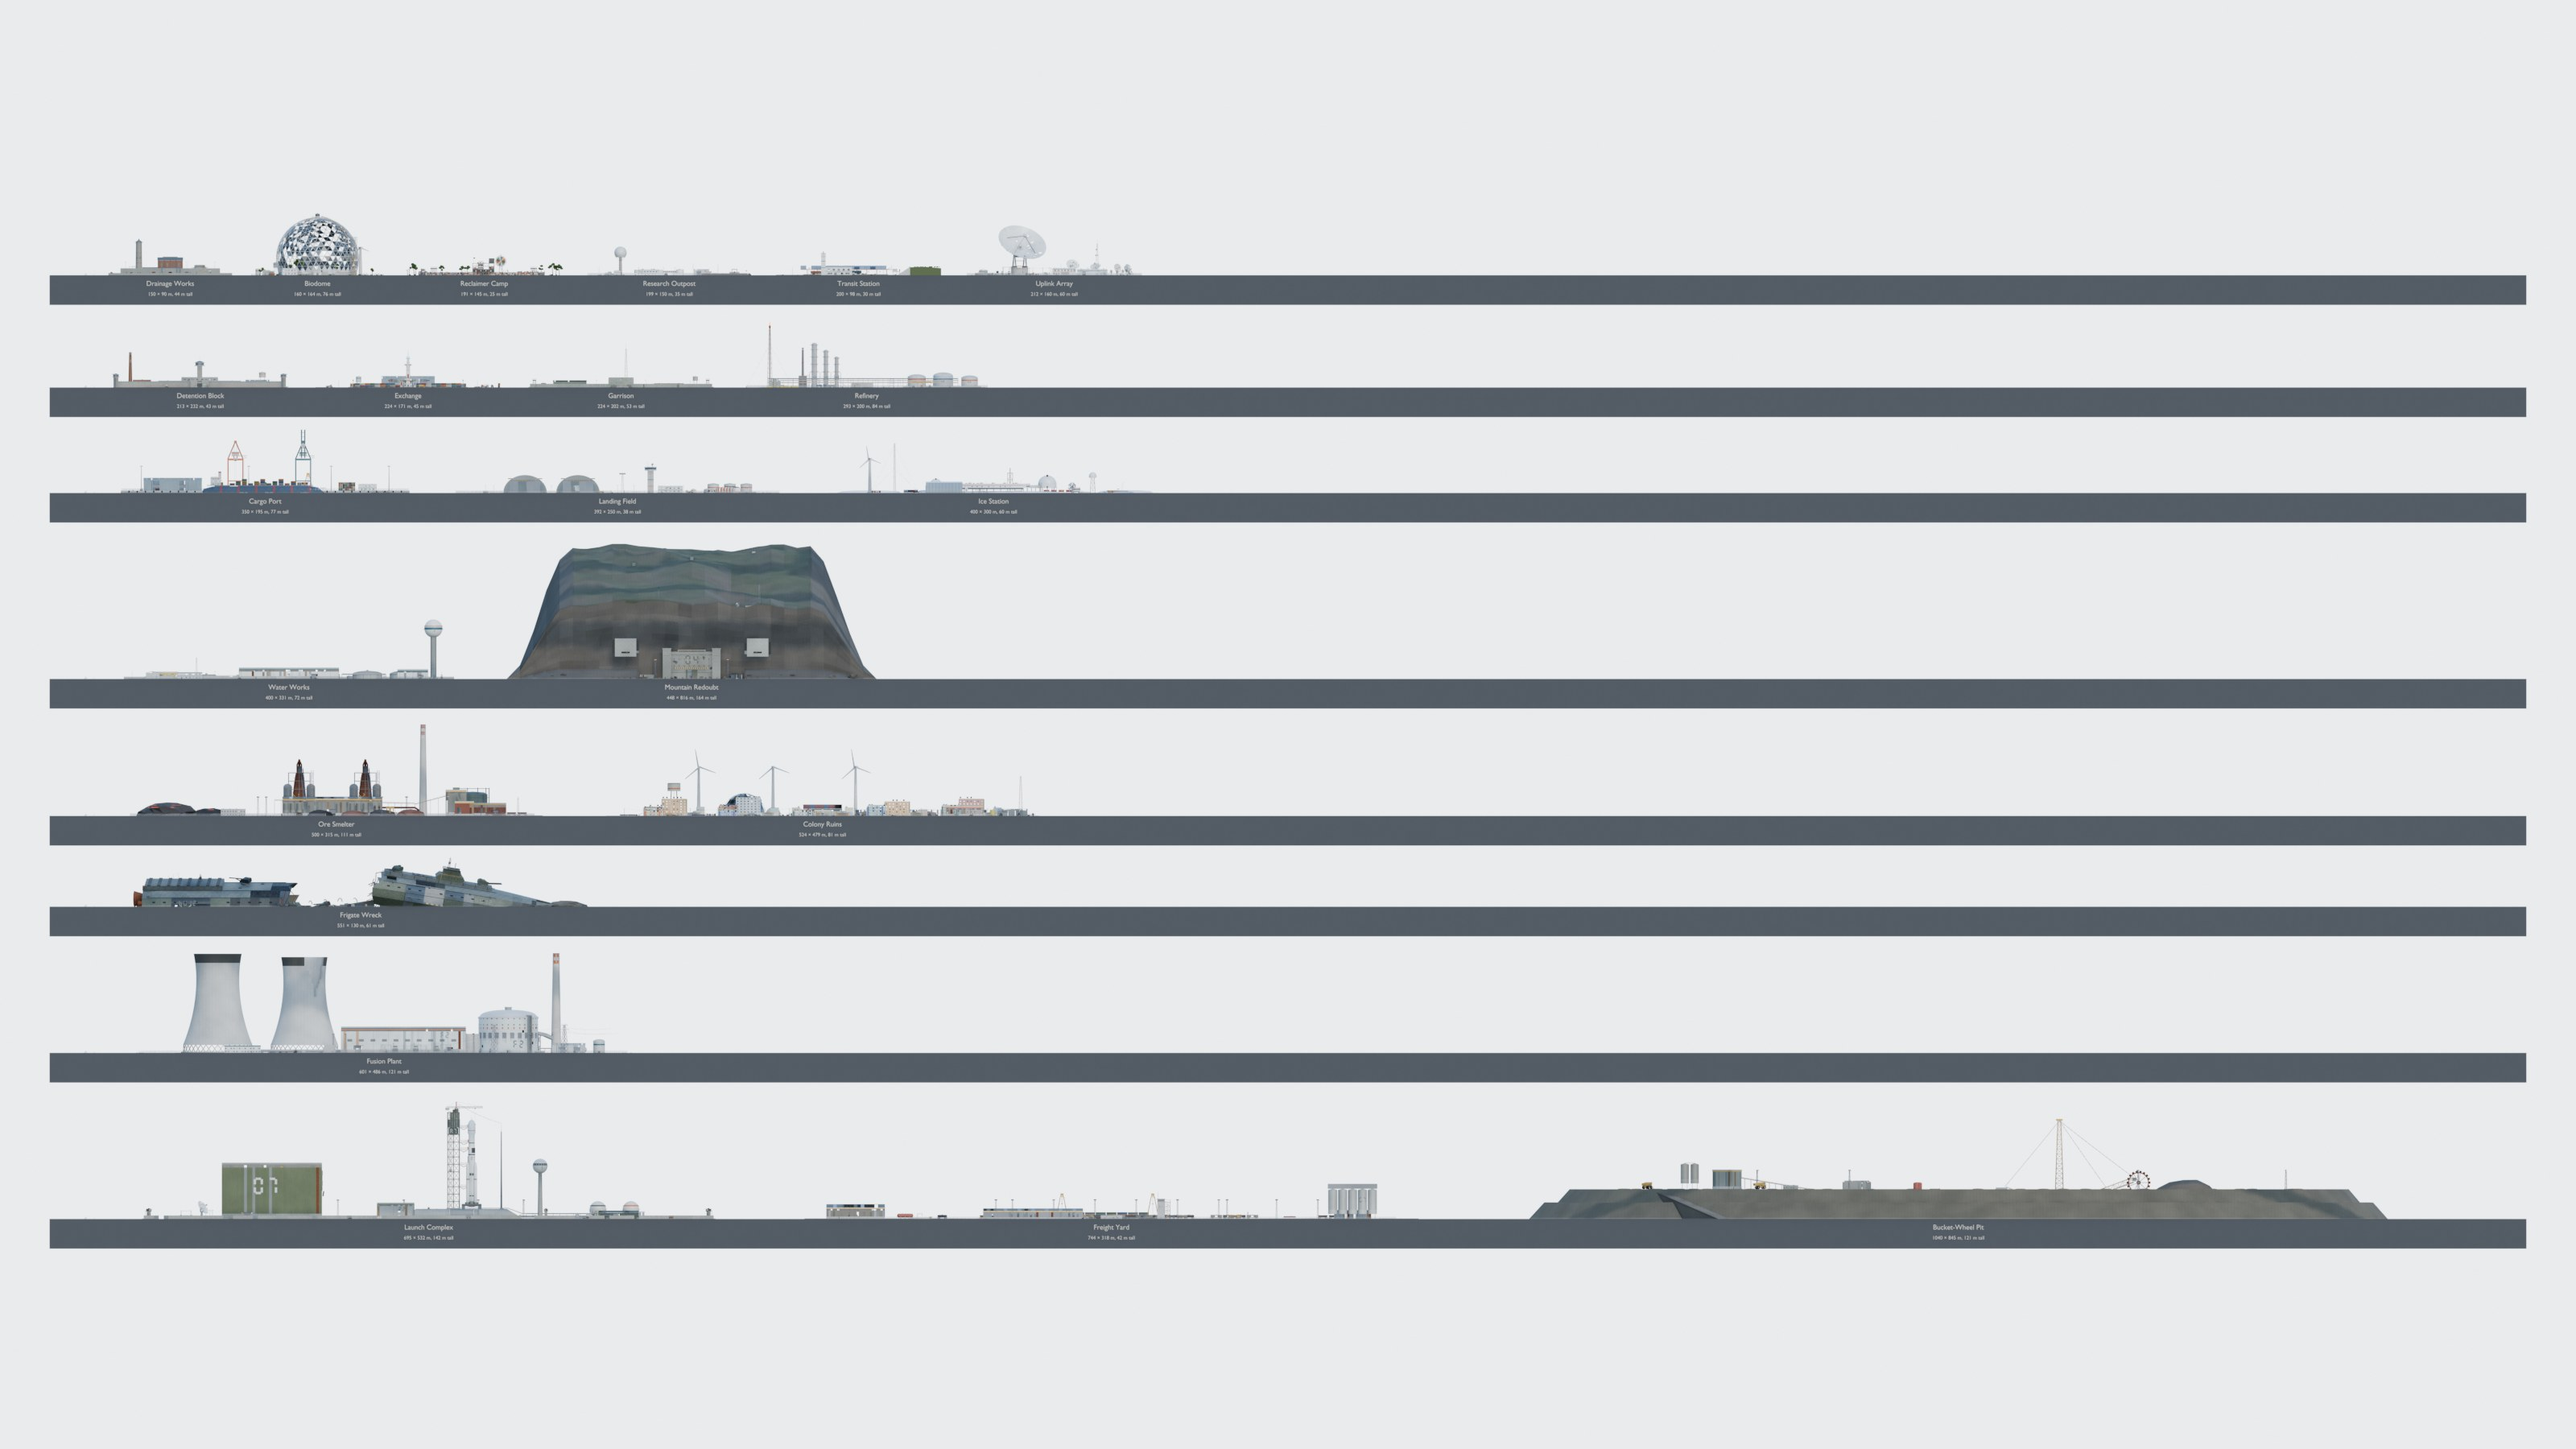
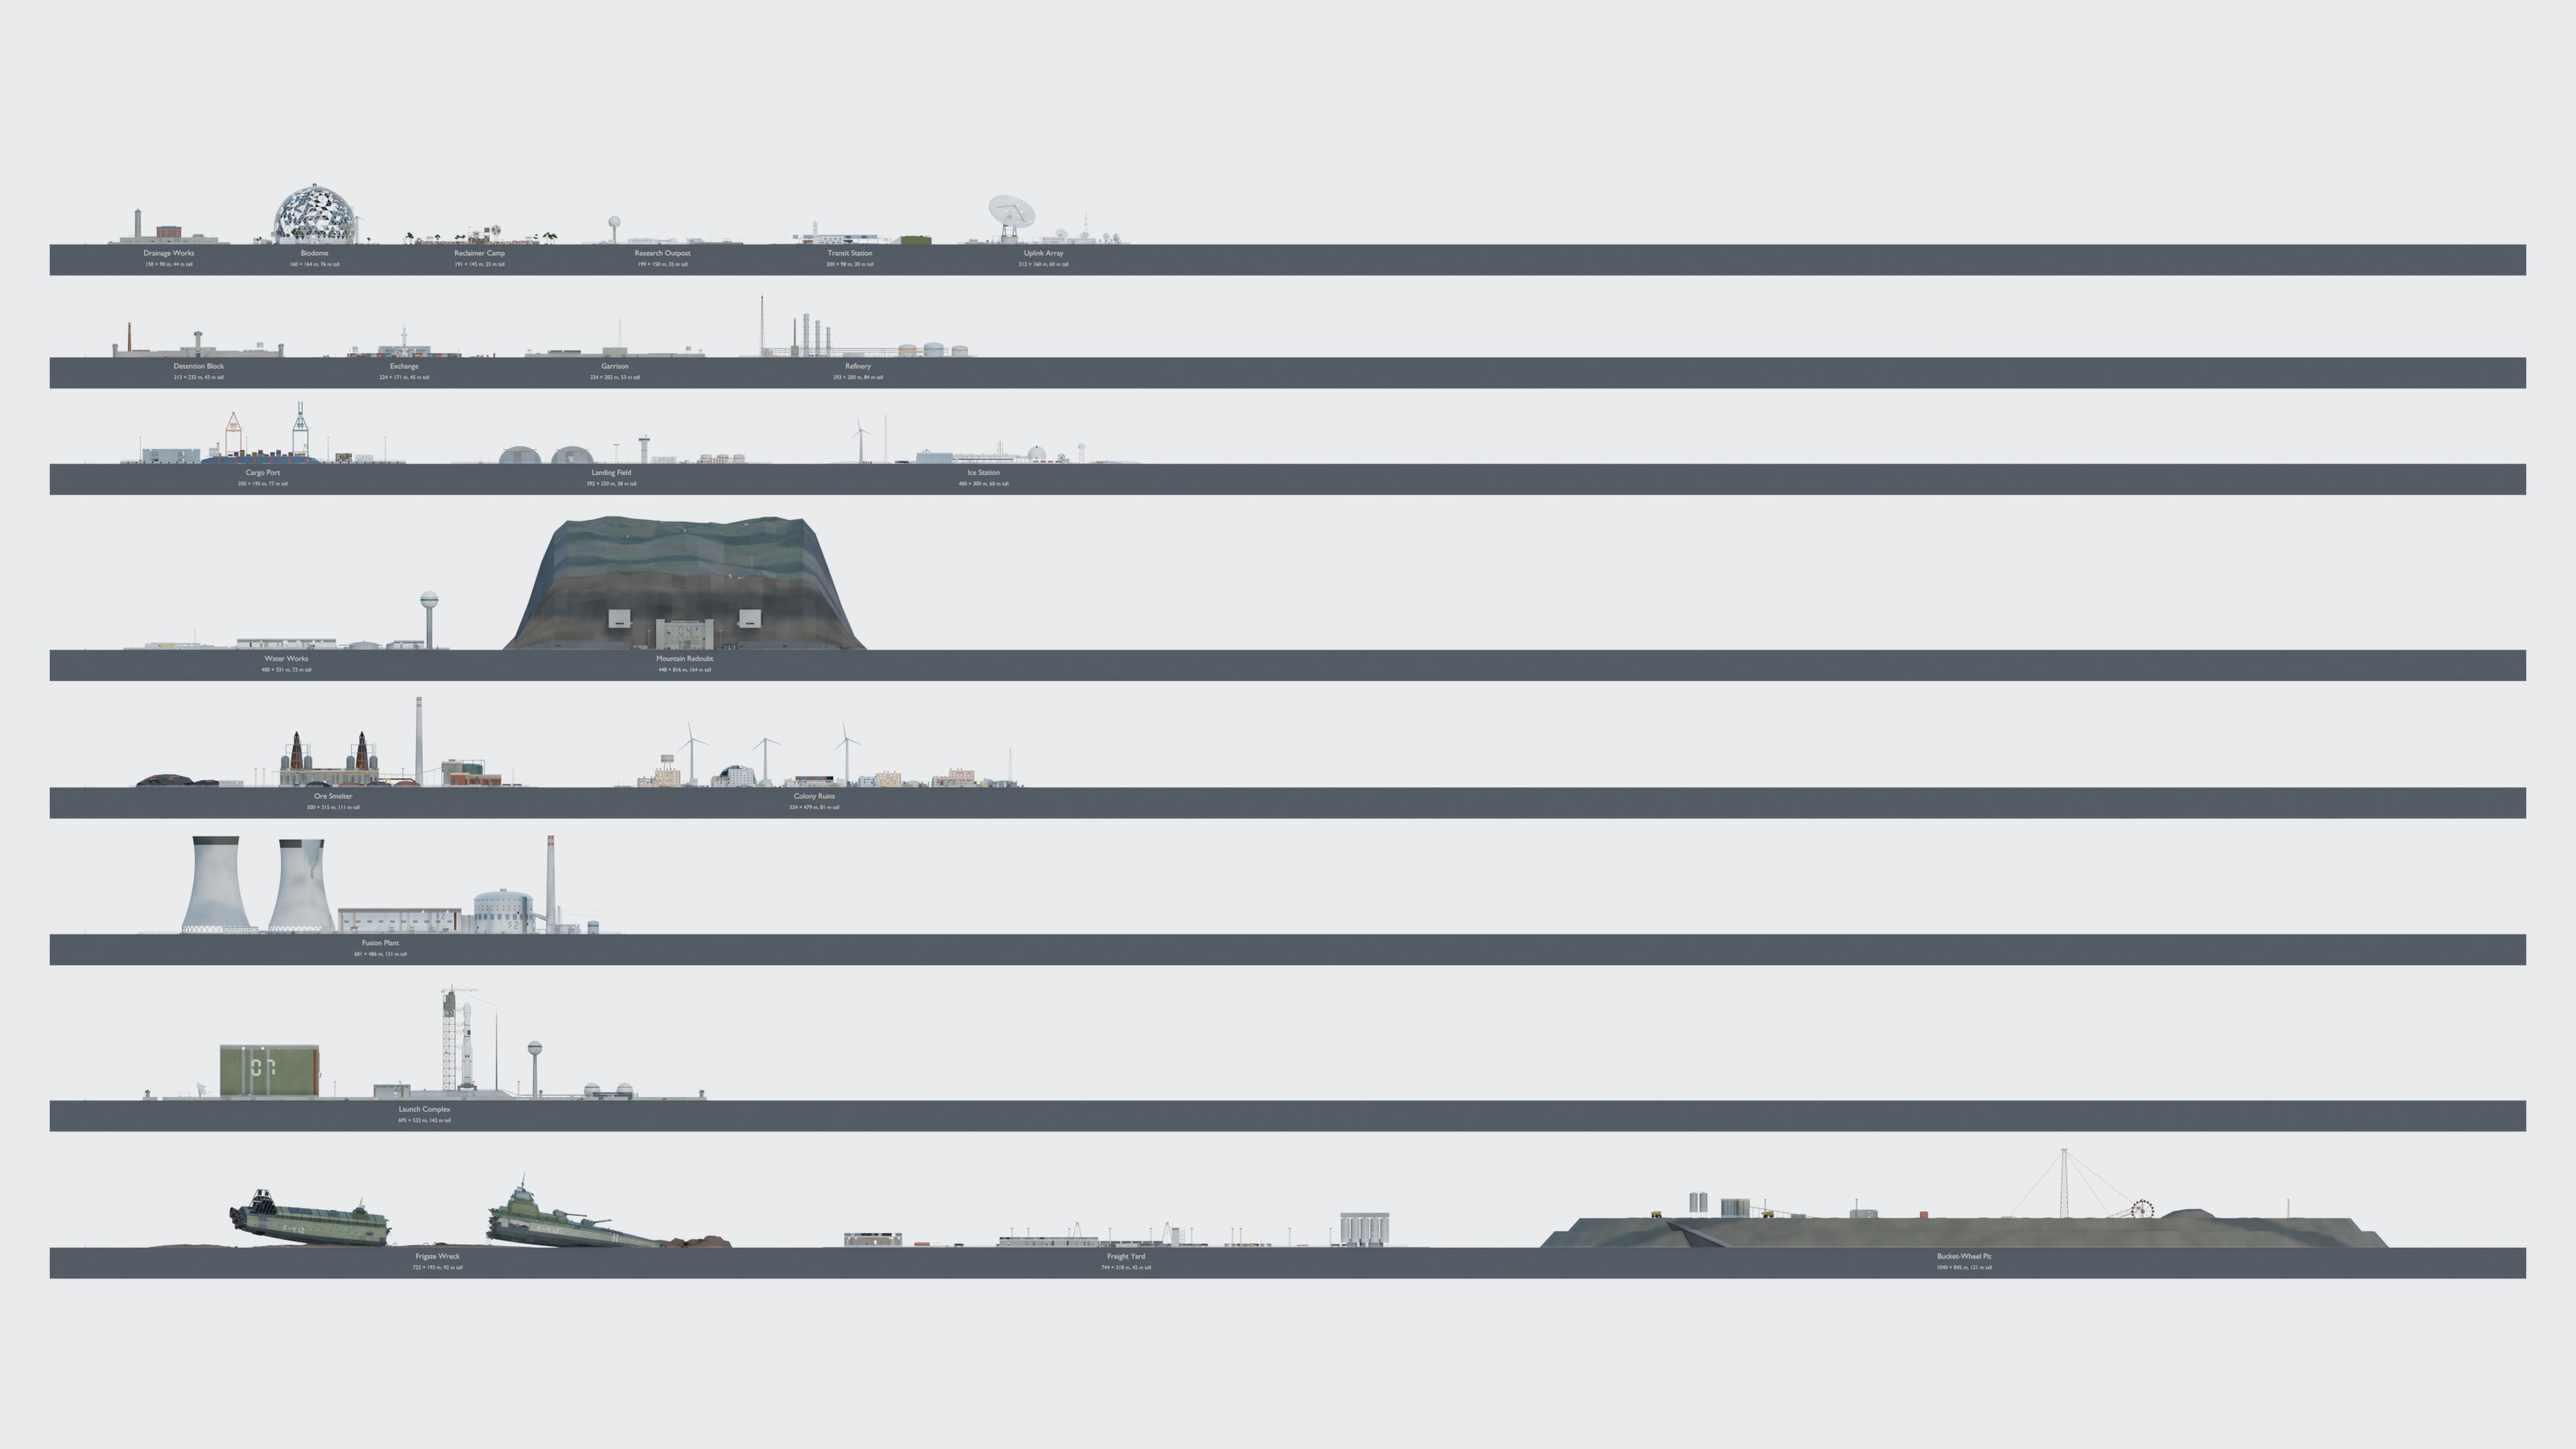
Frigate Wreck: catalogue size updated; scale charts with the redesigned wreck

diff --git a/docs/MONUMENTS.md b/docs/MONUMENTS.md
@@ -209,7 +209,7 @@ crate); **guards**: Reclaimers (people) and Wardens (machines).
 | 40 | **Freight Yard** | 700 × 300 m | On rail lines | Rail yard with gantry cranes, sheds, wagons, a signal tower, an engine shed | Cyan room; crates in wagons; recycler. *Built: `freight_yard.py`* | Rust's train yard |
 | 41 | **Water Works** | 400 × 300 m | Rivers | Settling basins, filter halls, pump houses, a water tower | Cyan room; recycler. *Built: `water_works.py`* | Rust's water treatment plant |
 | 42 | **Mountain Redoubt** | 300 m front, tunnels 600 m deep | Cliffs | A Bulwark fortress cut into a cliff: gun ports, blast doors, tunnels, a command bunker | Heavy Reclaimers inside; military and vault crates; violet room. *Built: `mountain_redoubt.py`* | Rust's military tunnels |
-| 43 | **Frigate Wreck** | 420 m, two halves | Plains, deserts, seabeds | A Bulwark frigate broken in two, half-buried, burnt; halves 300 m apart | Ship parts (only source of some); Reclaimers nest inside; contamination 2 in the drive section. *Built: `frigate_wreck.py`* | Dune's named shipwrecks |
+| 43 | **Frigate Wreck** | 420 m hull in two halves (240 and 180 m), 93 m tall; site 700 × 260 m | Plains, deserts, seabeds | A Bulwark frigate broken in two, half-buried, burnt; halves 300 m apart | Ship parts (only source of some); Reclaimers nest inside; contamination 2 in the drive section. *Built: `frigate_wreck.py`* | Dune's named shipwrecks |
 | 44 | **Colony Ruins** | 600 × 500 m | Coasts, river valleys | A ruined prefab town: streets, blocks, a plaza, a clinic, burnt cars | Many low-tier crates; contamination 1–3 by street; Reclaimers. *Built: `colony_ruins.py`* | Rust's radtown |
 | 45 | **Ore Smelter** | 500 × 300 m | Near mines | Crushers, conveyors, blast furnaces, slag heaps, a rail spur | Refined metal makings; cyan room; heat hazard. *Built: `ore_smelter.py`* | — |
 | 46 | **Bucket-Wheel Pit** | 800 m pit, machine 120 m | Ore-rich plains | A huge bucket-wheel excavator in an open pit, its boom over the face | Fill with fuel and it digs (a slow, loud, contested producer of ore); vault crates on the machine. *Built: `bucket_wheel_pit.py`* | Rust's giant excavator |
